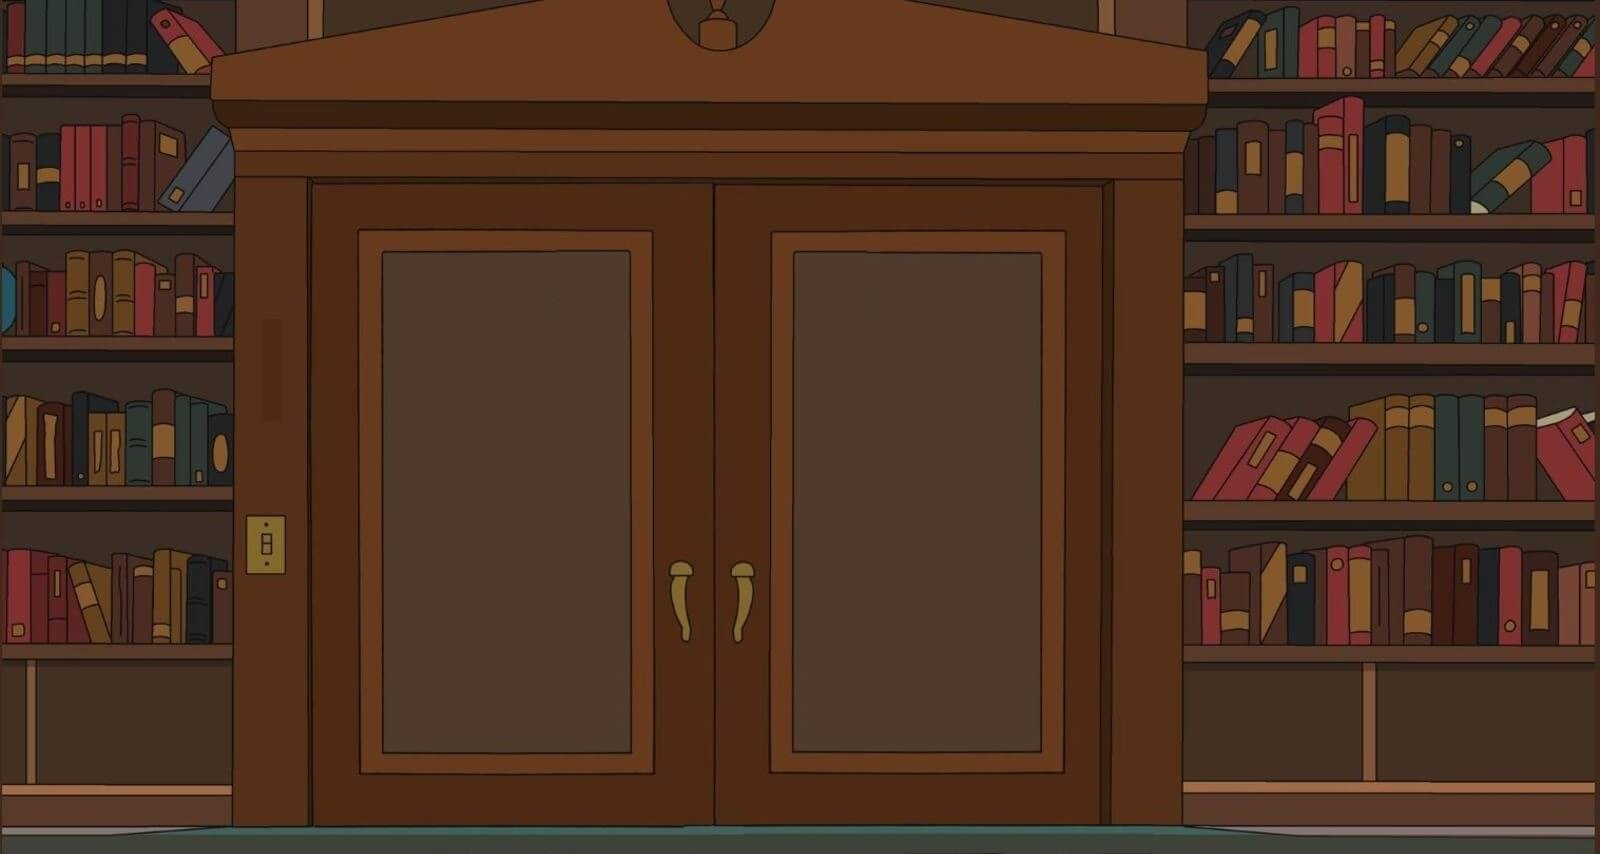
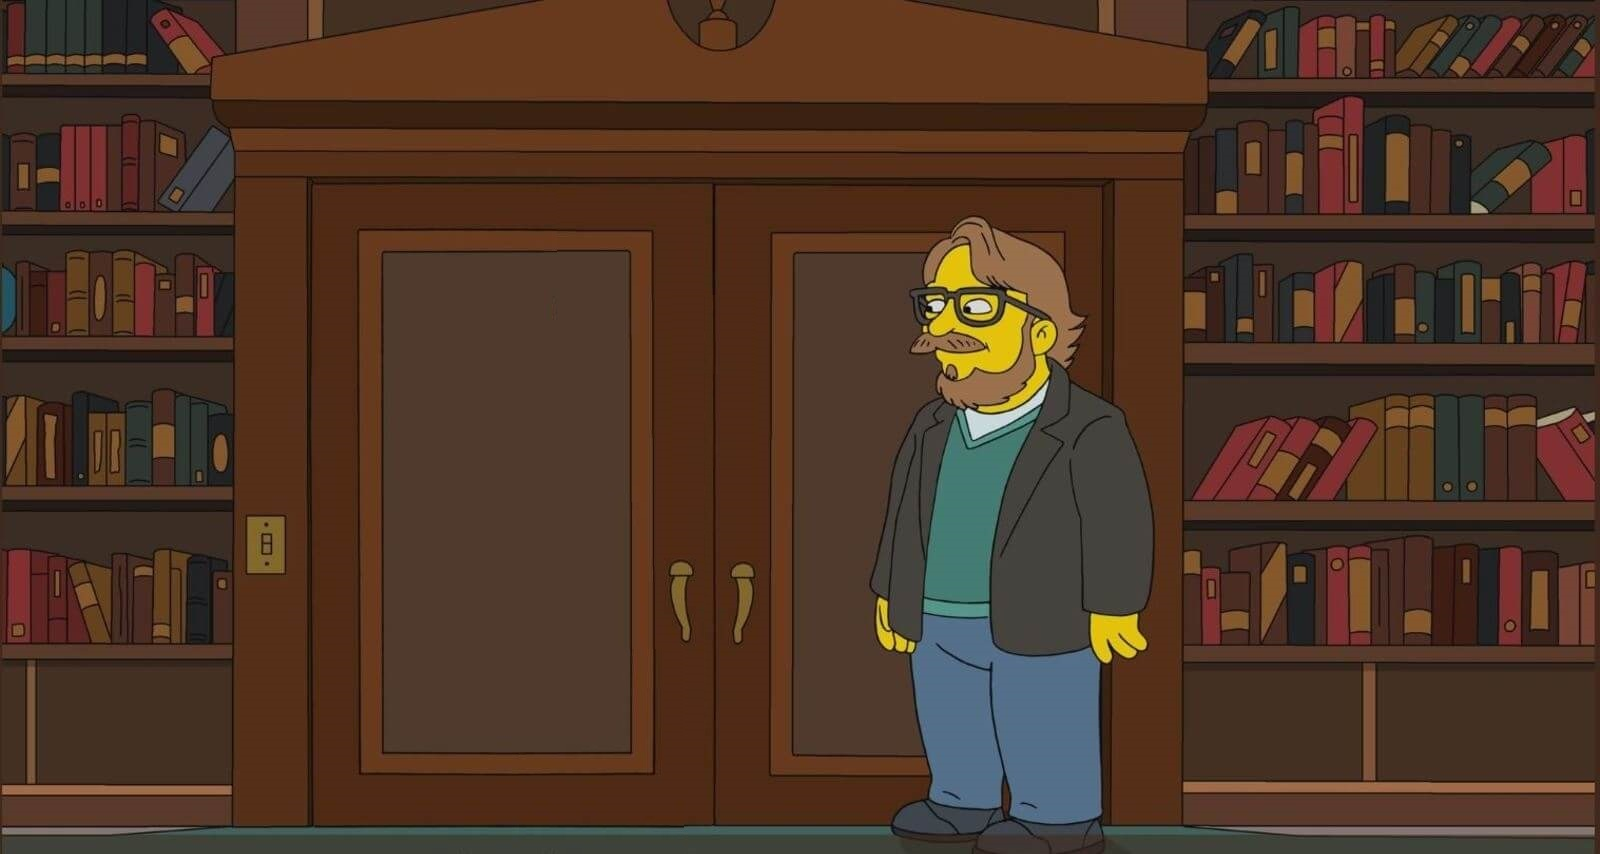
Funko

Changed region(s): [[0.5, 0.2436, 0.7188, 1.0]]

diff --git a/sep_11/funko/funko.css b/sep_11/funko/funko.css
@@ -15,15 +15,13 @@ body {
     background-color: black;
     background-image: url("fondo.jpg");
     background-size: 100% 100%;
-    padding-top: (50% - 500px);
 }
 .todo {
     position: absolute;
-    padding: 0px;
-    margin: 5%;
-    width: 90%;
-    height: 90%;
-    margin-left: 150px;
+    width: 300px;
+    height: 465px;
+    left: 15%;
+    bottom: 3px;
 }
 .cabeza {
     width: 238px;
@@ -219,7 +217,11 @@ body {
 .pantalon2 {
     left: 163px;
     transform: rotateY(180deg);
-    animation: patea 1.5s ease-in infinite, patea2 3.5s ease-in 9s 1;
+/*    animation-name: patea;
+    animation-duration: 1s;
+    animation-timing-function: ease-in;
+    animation-iteration-count: infinite;*/
+    animation: patea 1.5s ease-in infinite;
 }
 .calceta {
     position: absolute;    
@@ -289,12 +291,12 @@ body {
 }
 .apagador {
     position: absolute;
-    height: 36px;
-    width:  28px;
-    top: 317px;
-    left: 168px;
+    height: 6.9%;
+    width: 2.45%;
+    top: 60.4%;
+    left: 15.4%;
     background-color: transparent;
-    border: 1px solid black;
+    border: 0;
     z-index: 1;
 }
 
@@ -314,16 +316,6 @@ body {
 .nariz {
     background: linear-gradient(to bottom, rgb(255, 249, 96, .3)30%, rgb(242, 194, 0, .1) 90%, rgb(162, 130, 0, .9)99%), linear-gradient(to right, #A28200 5%, #F2C200, rgb(255, 249, 96, 1) 40%, rgb(255, 249, 96, 1) 60%, #F2C200 70%, #C2A200);
 }
-.toro {
-    position: absolute;
-    width: 222px;
-    height: 416px;
-    left: 350px;
-    bottom: 5px;
-    background-image: url("./toro.png");
-    background-size: 100%;
-    animation: caer .5s ease-in 0s 10s forwards;
-}
 
 /*eventos*/
 .apagador:active ~ .universo .todo .luz, .apagador:active ~ .universo, .apagador:active ~ .universo .todo {
@@ -338,8 +330,7 @@ body {
     background: linear-gradient(202deg, transparent 100%, black 0%);
 }
 
-
-}
+/*animaciones*/
 @keyframes patea {
     0% {
         height: 90px;
@@ -350,42 +341,7 @@ body {
         transform: rotateY(180deg) rotate(40deg) translateX(-42px) translateY(-20px);
     }
 }
-@keyframes patea2 {
-    0% {
-        height: 90px;
-        transform: rotateY(180deg);
-    }
-    15% {
-        top: 335px;
-        left: 200px;
-        height: 140px;
-        transform: rotateY(180deg) rotate(50deg) translateX(-42px) translateY(-20px);
-    }
-    20% {
-        top: 280px;
-        left: 260px;
-        height: 250px;
-        transform: rotateY(180deg) rotate(70deg) translateX(-42px) translateY(-20px);
-    }
-    65% {
-        top: 335px;
-        left: 200px;
-        height: 140px;
-        transform: rotateY(180deg) rotate(50deg) translateX(-42px) translateY(-20px);
-    }
-}
-@keyframes caer {
-    0% {
-        left: 350px;
-        bottom: 5px;
-    }
-    33% {
-        left: 450px;
-        bottom: 105px;
-    }
-    66% {
-        left: 550px;
-        bottom: 5px;
-    }
-}
+
+
+
 
